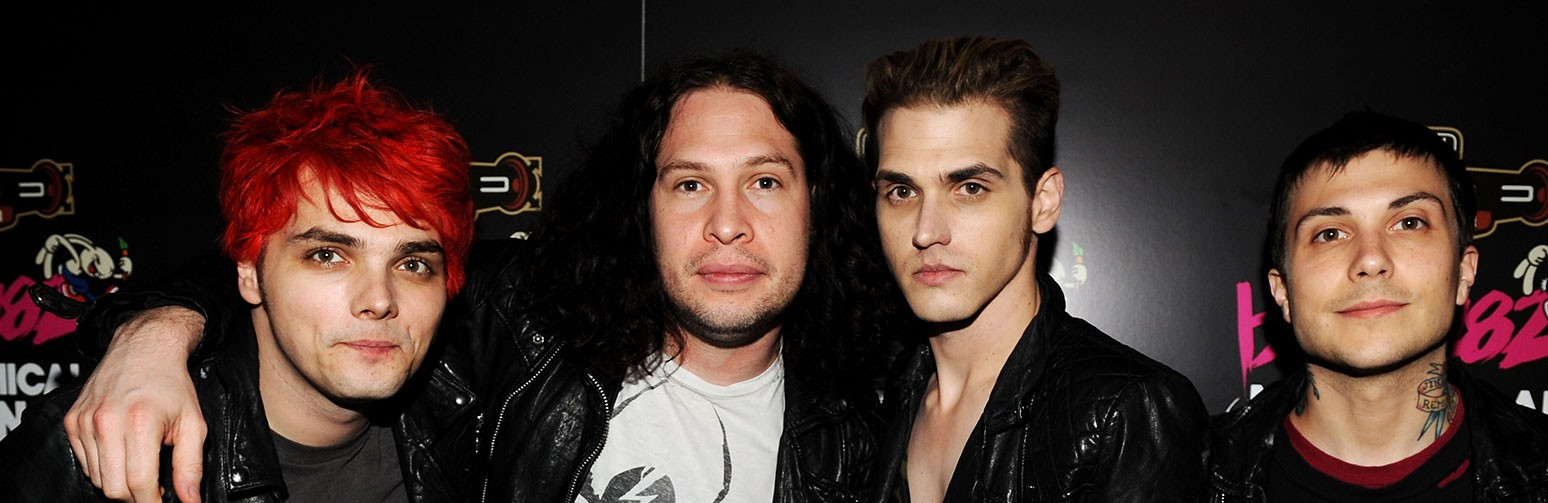
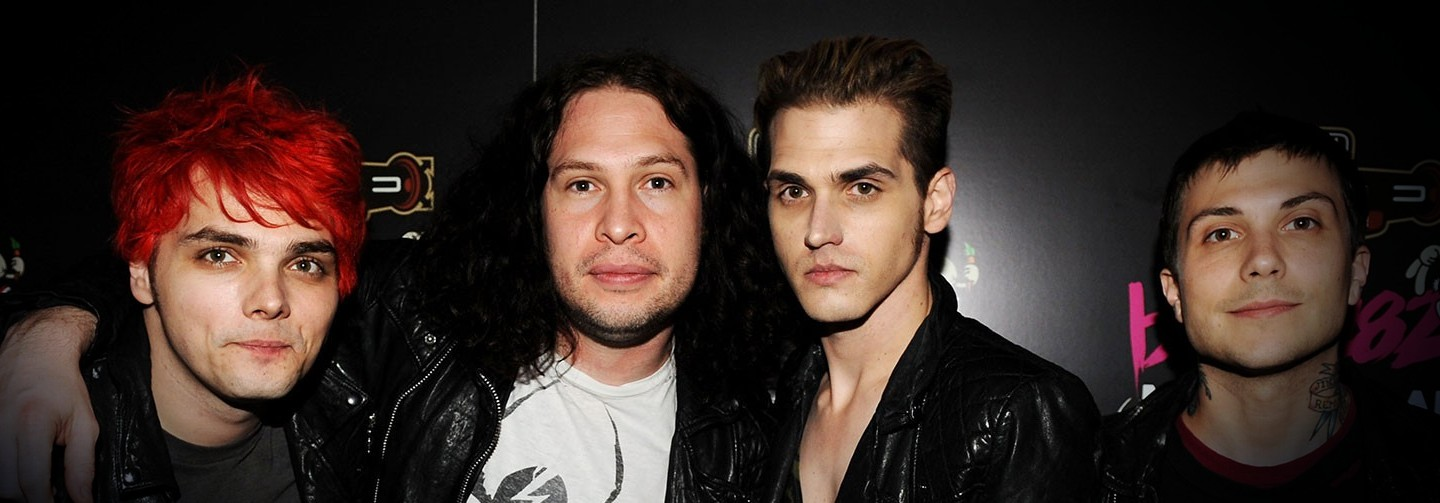
All image options

diff --git a/about.html b/about.html
@@ -23,9 +23,7 @@
       </header>
       <div class="hero">
         <div class="centre aboutus">
-          <div class="hero-image">
-            <img src="images/aboutushero.jpg" alt="Image of the band members"/>
-          </div>
+          <img src="images/aboutushero3.jpg" alt="Image of the band members"/>
           <h2>Who are My Chemical Romance?</h1>
         </div>
       </div>

diff --git a/style.css b/style.css
@@ -362,13 +362,3 @@ a.footertxt {
     margin: 0;
     padding: 10px 0;
 }
-
-.hero-image::after {
-    display: block;
-    position: relative;
-    margin-top: -467px;
-    height: 467px;
-    width: 100%;
-    content: '';
-    background-image: radial-gradient(circle, rgba(0,0,0,0) 0%, rgba(0,0,0,1) 100%);
-}
